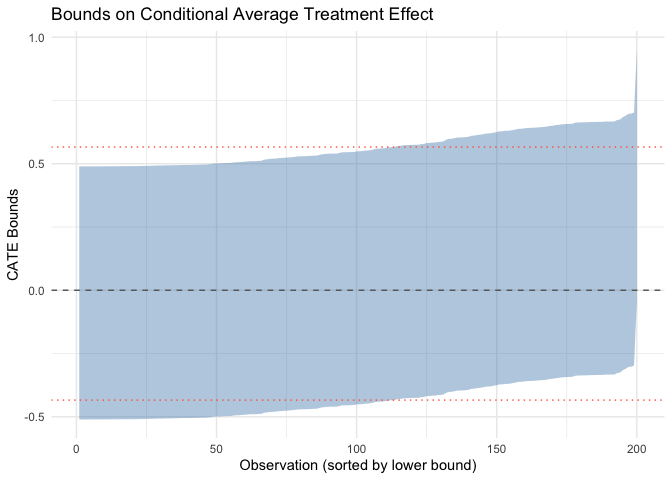
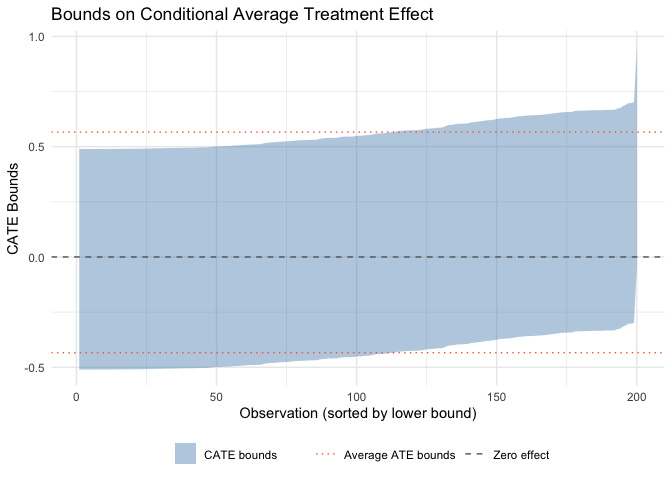
Add legends to plots and fix math rendering in README
Plot improvements:
- plot.rbounds: Added legend showing "Bounds" (blue) and "95% CI" (red)
- plot.rbounds_ate: Added legend showing "CATE bounds", "Average ATE bounds",
  and "Zero effect" line types

README improvements:
- Changed output format from markdown_github to github_document
- Math now uses $$ syntax which GitHub renders as LaTeX
- Display equations properly preserved instead of converted to italics

diff --git a/README.md b/README.md
@@ -1,3 +1,4 @@
+
 <!-- README.md is generated from README.Rmd. Please edit that file -->
 
 # rbounds: Estimating Bounds on Partially Identified Parameters
@@ -18,33 +19,33 @@ components of the bounds.
 
 ## Example of bounding the conditional mean
 
-Imagine that we are interested in estimating *E*(*y*\|*x*) where
-*y* ∈ {0, 1}. Unfortunately, we are missing some observations of *y*.
-Whether an observation is missing is denoted by a dummy variable *z*,
-where when *z* = 1 *y* is observed and otherwise the value of *y* is not
-observed. We have some covariates *x* whose value we observe for all
+Imagine that we are interested in estimating $E(y | x)$ where
+$y \in \{0,1\}$. Unfortunately, we are missing some observations of $y$.
+Whether an observation is missing is denoted by a dummy variable $z$,
+where when $z=1$ $y$ is observed and otherwise the value of $y$ is not
+observed. We have some covariates $x$ whose value we observe for all
 observations.
 
 By the law of total probability it follows that
 
-*E*(*y*\|*x*) = *E*(*y*\|*x*,*z*=1)*P*(*z*=1\|*x*) + *E*(*y*\|*x*,*z*=0)*P*(*z*=0\|*x*).
+$$E(y | x) = E(y | x, z = 1)P(z = 1 | x) + E(y | x, z = 0)P(z = 0 | x).$$
 
 Each of the pieces of this equation can be estimated from the available
-data with the exception of *E*(*y*\|*x*,*z*=0), which is the conditional
+data with the exception of $E(y|x, z=0)$, which is the conditional
 expectation of the outcome for the cases in which the outcome value is
 unobserved.
 
-However, since 0 ≤ *y* ≤ 1, the unobserved function can take on the
-value of at most 1 – if all the unobserved outcomes were 1, or at least
-0. Thus the true conditional mean must fall within the bounds:
+However, since $0 \leq y \leq 1$, the unobserved function can take on
+the value of at most $1$ – if all the unobserved outcomes were 1, or at
+least $0$. Thus the true conditional mean must fall within the bounds:
 
-*E*(*y*\|*x*,*z*=1)*P*(*z*=1\|*x*) ≤ *E*(*y*\|*x*) ≤ *E*(*y*\|*x*,*z*=1)*P*(*z*=1\|*x*) + (1−*P*(*z*=1\|*x*)).
+$$E(y | x, z = 1)P(z = 1 | x) \leq E(y | x) \leq E(y | x, z = 1)P(z = 1 | x ) + (1 - P(z = 1 | x)).$$
 
 More generically, if we denote the minimum value the conditional outcome
-can take on as *γ*<sub>0</sub> and the maximum by *γ*<sub>1</sub>, then
-the conditional mean can be bounded by
+can take on as $\gamma_0$ and the maximum by $\gamma_1$, then the
+conditional mean can be bounded by
 
-*E*(*y*\|*x*,*z*=1)*P*(*z*=1\|*x*) + *γ*<sub>0</sub>*P*(*z*=0\|*x*) ≤ *E*(*y*\|*x*) ≤ *E*(*y*\|*x*,*z*=1)*P*(*z*=1\|*x*) + *γ*<sub>1</sub>*P*(*z*=0\|*x*).
+$$E(y | x, z = 1)P(z = 1 | x) + \gamma_0 P(z=0|x) \leq E(y | x) \leq E(y | x, z = 1)P(z = 1 | x ) + \gamma_1 P(z = 0 | x).$$
 
 The conditional expectations in these expressions can be estimated
 parametrically or non-parametrically, and confidence intervals can be
@@ -78,7 +79,7 @@ res
 plot(res)
 ```
 
-![](README-example-1.png)
+![](README-example-1.png)<!-- -->
 
 ## Bounding Average Treatment Effects
 
@@ -86,16 +87,15 @@ The `ate_bounds()` function computes Manski worst-case bounds on the
 Average Treatment Effect (ATE) when treatment assignment may be
 non-random.
 
-The ATE is *τ* = *E*\[*Y*(1)\] − *E*\[*Y*(0)\] where *Y*(1) and *Y*(0)
-are potential outcomes. Since we only observe *Y*(1) for treated units
-and *Y*(0) for control units, the ATE is not point-identified without
+The ATE is $\tau = E[Y(1)] - E[Y(0)]$ where $Y(1)$ and $Y(0)$ are
+potential outcomes. Since we only observe $Y(1)$ for treated units and
+$Y(0)$ for control units, the ATE is not point-identified without
 assumptions.
 
-If outcomes are bounded (e.g., *Y* ∈ \[0,1\]), we can derive worst-case
+If outcomes are bounded (e.g., $Y \in [0,1]$), we can derive worst-case
 bounds:
 
-*τ*<sup>*L*</sup> = *E*<sup>*L*</sup>\[*Y*(1)\] − *E*<sup>*U*</sup>\[*Y*(0)\]
-*τ*<sup>*U*</sup> = *E*<sup>*U*</sup>\[*Y*(1)\] − *E*<sup>*L*</sup>\[*Y*(0)\]
+$$\tau^L = E^L[Y(1)] - E^U[Y(0)]$$ $$\tau^U = E^U[Y(1)] - E^L[Y(0)]$$
 
 ### ATE Example
 
@@ -139,4 +139,4 @@ ate_res
 plot(ate_res)
 ```
 
-![](README-ate_example-1.png)
+![](README-ate_example-1.png)<!-- -->
